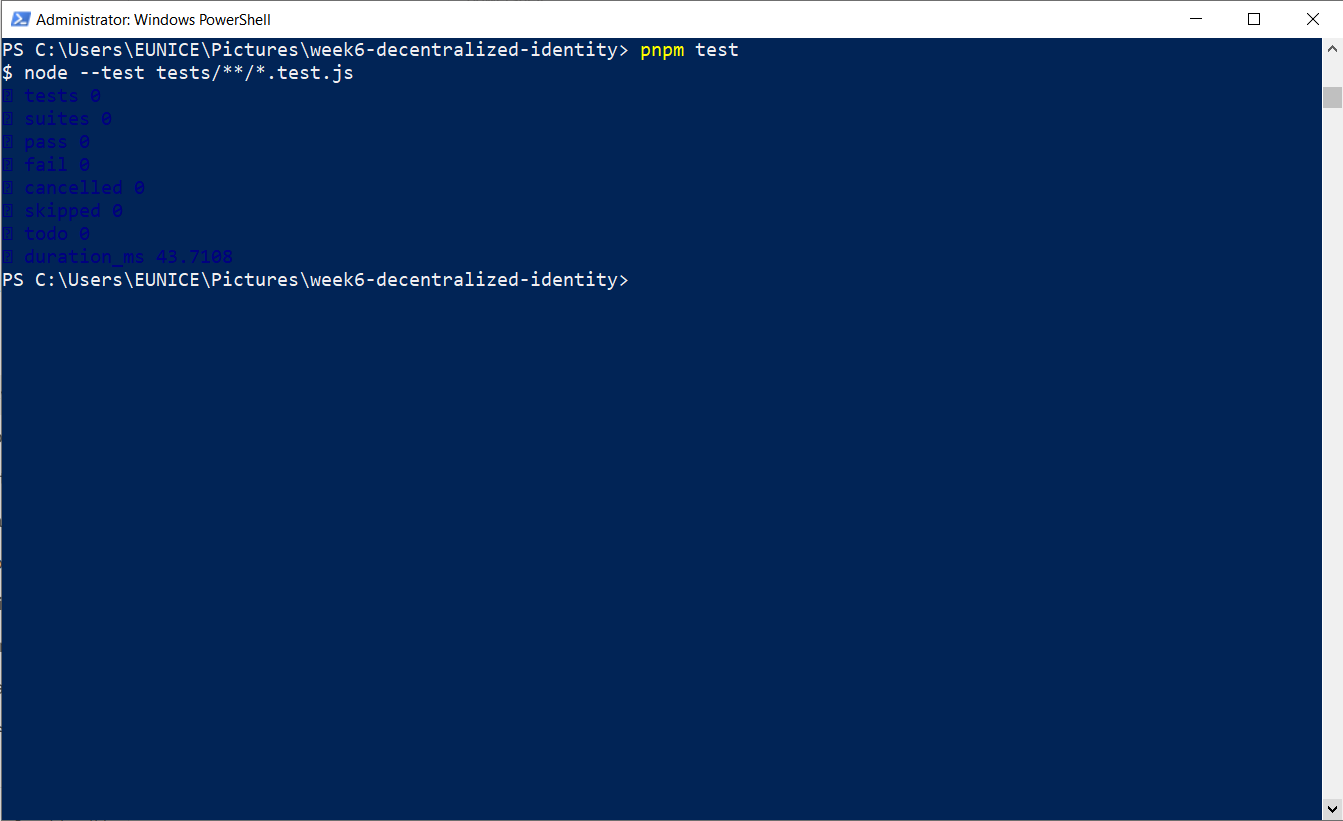
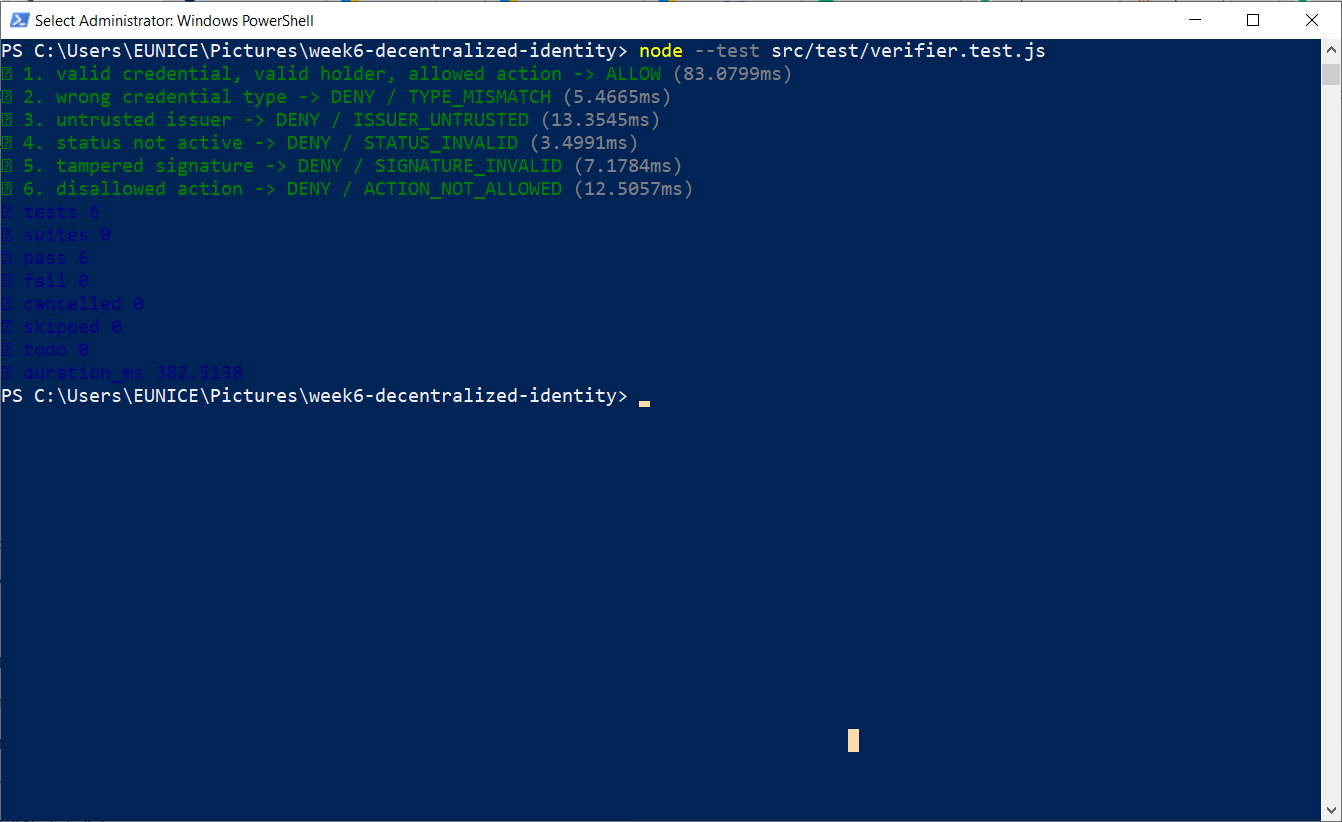
correct evidence and test folder

diff --git a/src/test/verifier.test.js b/src/test/verifier.test.js
@@ -11,7 +11,7 @@ import assert from 'node:assert/strict';
 import * as ed25519 from '@noble/ed25519';
 import { sha512 } from '@noble/hashes/sha2.js';
 import { base58btc } from 'multiformats/bases/base58';
-import { verifyCredential, ReasonCode } from '../src/verifier.js';
+import { verifyCredential, ReasonCode } from '../verifier.js';
 
 ed25519.hashes.sha512 = sha512;
 
